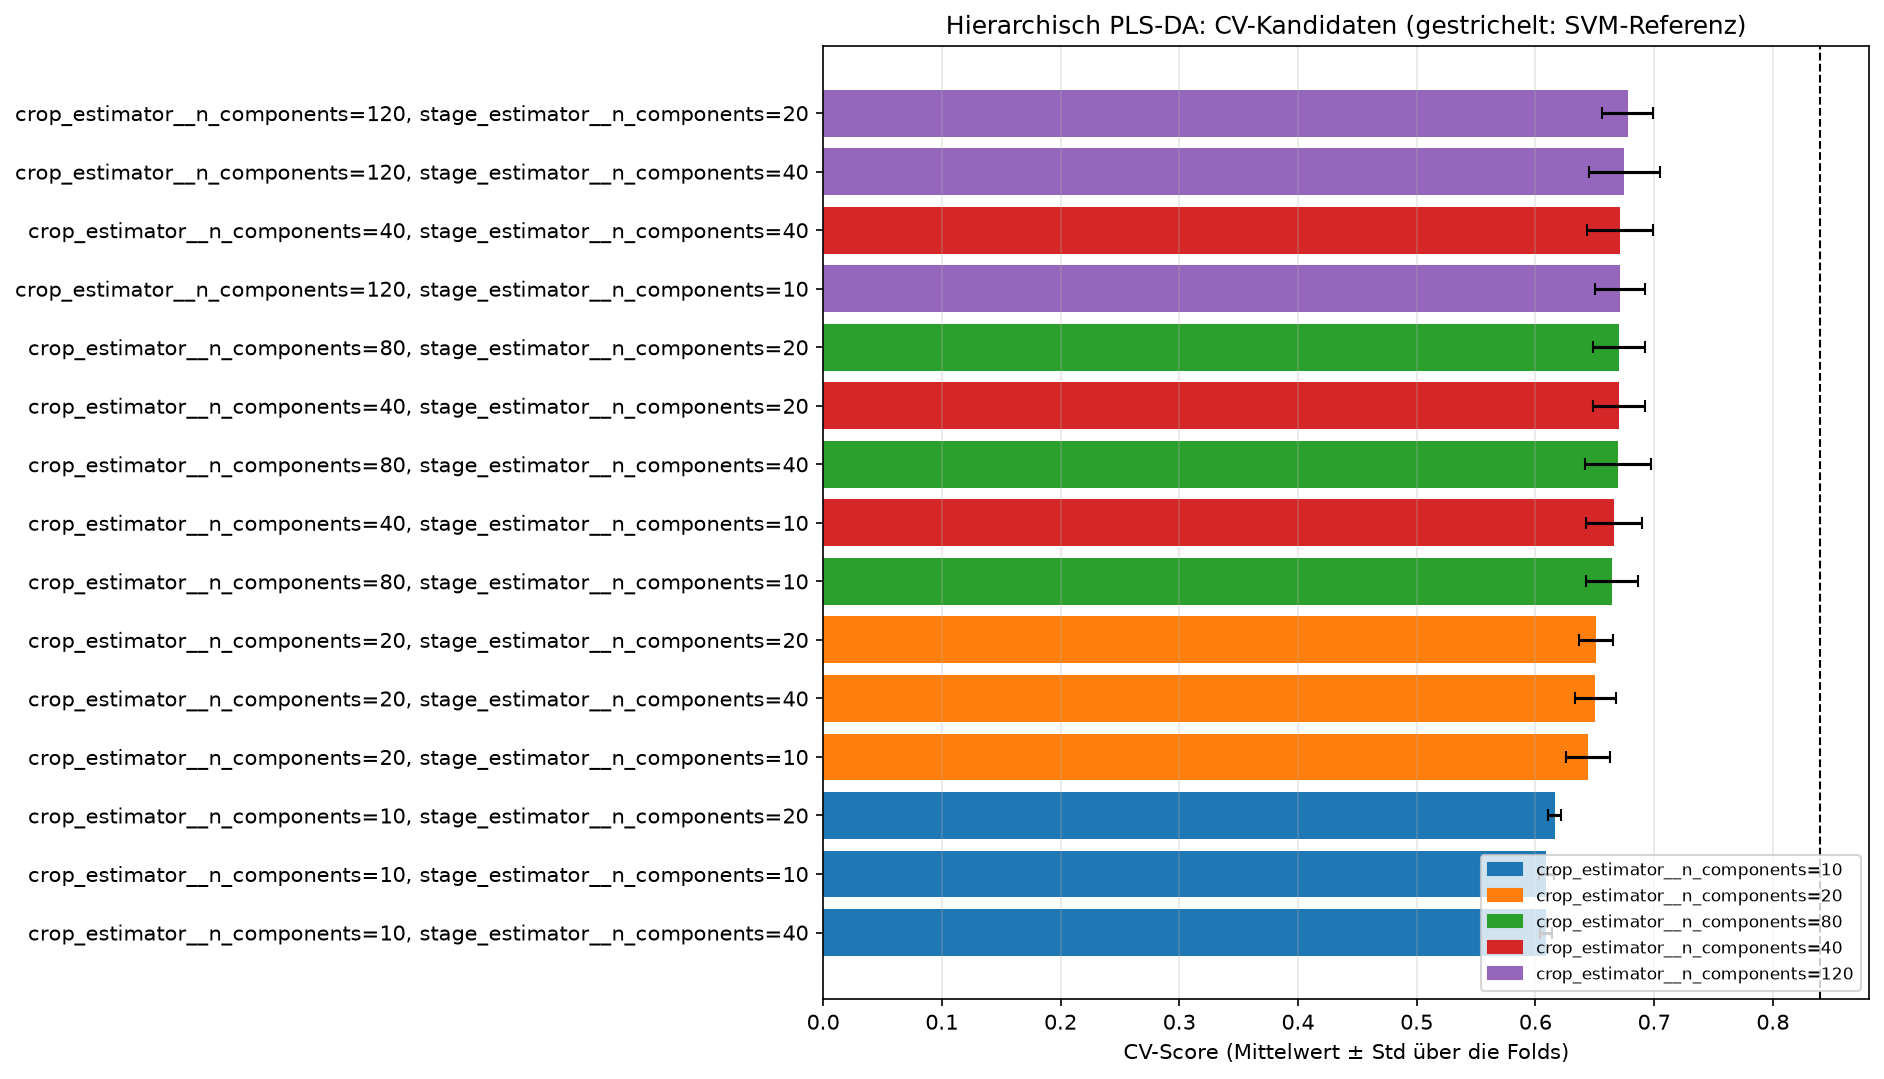
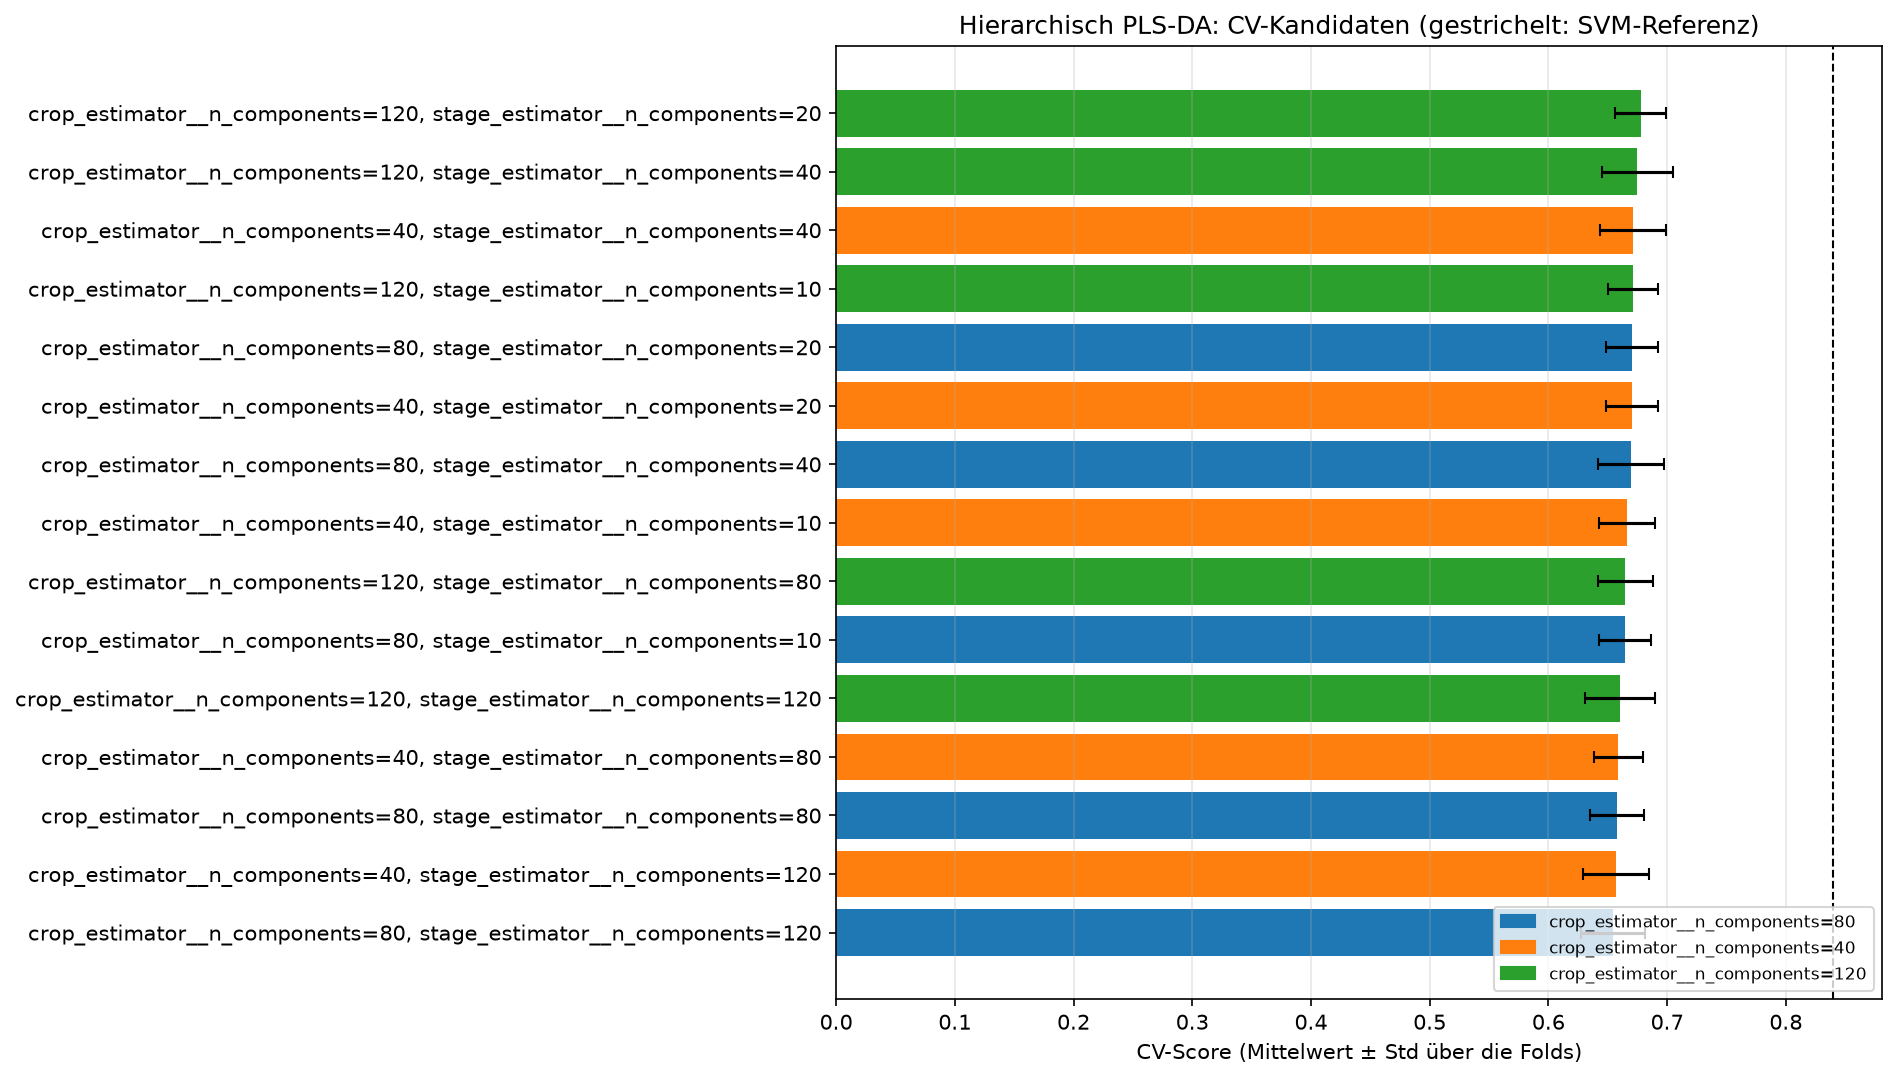
fix: cap pls components at the number of samples

diff --git a/src/awp2/models/plsda.py b/src/awp2/models/plsda.py
@@ -17,15 +17,11 @@ class PLSDAClassifier(ClassifierMixin, BaseEstimator):
     the scores, so frequent classes are not favoured.
 
     Args:
-        n_components: Number of PLS components; capped at the number of features.
+        n_components: Number of PLS components; capped at the number of samples and features,
+            which matters for small stage models (rice: about 50 rows per CV fold).
     """
 
-    def __init__(self, n_components: int = 10) -> None:
-        """Initialise the classifier.
-
-        Args:
-            n_components: Number of PLS components.
-        """
+    def __init__(self, n_components: int = 10) -> None:  # noqa: D107 – documented on the class
         self.n_components = n_components
 
     def fit(self, X: pd.DataFrame | np.ndarray, y: pd.Series | np.ndarray) -> "PLSDAClassifier":
@@ -41,7 +37,7 @@ class PLSDAClassifier(ClassifierMixin, BaseEstimator):
         labels = np.asarray(y)
         self.classes_ = np.unique(labels)
         one_hot = (labels[:, np.newaxis] == self.classes_).astype(float)
-        components = min(self.n_components, np.shape(X)[1])
+        components = min(self.n_components, *np.shape(X))
         self.pls_ = PLSRegression(n_components=components, scale=False).fit(X, one_hot)
         self.lda_ = BalancedLinearDiscriminantAnalysis(solver="lsqr", shrinkage="auto").fit(
             self.pls_.transform(X), labels

diff --git a/docs/modelle/experimente.md b/docs/modelle/experimente.md
@@ -24,7 +24,7 @@ Run-ID ([Experimente & MLflow](../entwicklung/tracking.md)).
 | 2026-10-12 | hierarchical_svm_tuned | Datata1 | Hierarchisch | 0.920 | 0.898 | 0.839 | 0.820 | 0.906 | f2d755a7 | Erweitertes Raster (#89): Stadium `C=1000` statt 100; Tuning `hierarchical_svm_wide_search` (ed78855f), CV 0.840 ± 0.020 (Referenz 0.839 ± 0.010) – Gewinn im Rauschen, Lauf wegen fehlender Schwelle in Schritt 1 dennoch ausgeführt; keine ungültigen Paare. `hierarchical_svm` bleibt Referenz. |
 | 2026-10-12 | hierarchical_lda | Datata1 | Hierarchisch | 0.822 | 0.768 | 0.676 | 0.609 | 0.767 | 2b5eb7dc | LDA → LDA mit gleichen Priors (`BalancedLinearDiscriminantAnalysis`, lsqr); Kultur Shrinkage `auto`, Stadium 0.01; Tuning `hierarchical_lda_search`, CV 0.657; Kultur falsch 23 %, Oracle-Kultur 0.901; keine ungültigen Paare |
 | 2026-10-12 | hierarchical_logreg | Datata1 | Hierarchisch | 0.887 | 0.831 | 0.759 | 0.733 | 0.857 | 78fbacd9 | Logistische Regression → logistische Regression, `class_weight="balanced"`; Kultur `C=10`, Stadium `C=100` (Rasterrand); Tuning `hierarchical_logreg_search`, CV 0.747; Kultur falsch 14 %, Oracle-Kultur 0.920; keine ungültigen Paare |
-| 2026-10-12 | hierarchical_plsda | Datata1 | Hierarchisch | 0.846 | 0.778 | 0.686 | 0.631 | 0.790 | b3627b9c | PLS-DA → PLS-DA (`PLSDAClassifier`: PLS-Komponenten + LDA mit gleichen Priors); Kultur 120, Stadium 20 Komponenten; Tuning `hierarchical_plsda_search`, CV 0.678; Kultur falsch 20 %, Oracle-Kultur 0.898; keine ungültigen Paare |
+| 2026-10-12 | hierarchical_plsda | Datata1 | Hierarchisch | 0.846 | 0.778 | 0.686 | 0.631 | 0.790 | b21da81c | PLS-DA → PLS-DA (`PLSDAClassifier`: PLS-Komponenten + LDA mit gleichen Priors); Kultur 120 (Rasterrand), Stadium 20 Komponenten; Tuning `hierarchical_plsda_search` (679e9f30), CV 0.678, alle 25 Kandidaten gültig; ersetzt `b3627b9c` (Komponentenzahl nicht auf die Zeilenzahl begrenzt, 10 Kandidaten fehlgeschlagen – gleiches Ergebnis); Kultur falsch 20 %, Oracle-Kultur 0.898; keine ungültigen Paare |
 
 ## CV-only Analysen
 

diff --git a/docs/modelle/ansaetze/hierarchisch.md b/docs/modelle/ansaetze/hierarchisch.md
@@ -256,8 +256,11 @@ Priors – ein Standard der Spektroskopie.
 
 - Suche `hierarchical_plsda_search` (25 Kandidaten): Kultur 120 Komponenten (Rasterrand, fast
   alle Merkmale), Stadium 20 – **CV 0.678** (LDA 0.657, SVM 0.839).
-- Validierung `hierarchical_plsda` (MLflow `b3627b9c`): Crop 0.846, Stage 0.778, **kombiniert
+- Validierung `hierarchical_plsda` (MLflow `b21da81c`): Crop 0.846, Stage 0.778, **kombiniert
   0.686**; keine ungültigen Paare. McNemar gegen die SVM: 303 zu 55 Zeilen.
+- Ein erster Lauf (`b3627b9c`) begrenzte die Komponentenzahl nicht auf die Zeilenzahl; beim
+  Reis-Stadium-Modell (~50 Zeilen je Fold) scheiterten so alle Kandidaten mit 80 oder 120
+  Stadium-Komponenten. Nach der Korrektur sind alle 25 gültig – mit demselben Ergebnis.
 - Die überwachte Verdichtung hilft kaum: Die Kulturstufe will fast alle Komponenten und landet
   damit nahe an LDA auf allen Bändern. 20 % falsche Kultur, mit wahrer Kultur 0.898.
 
